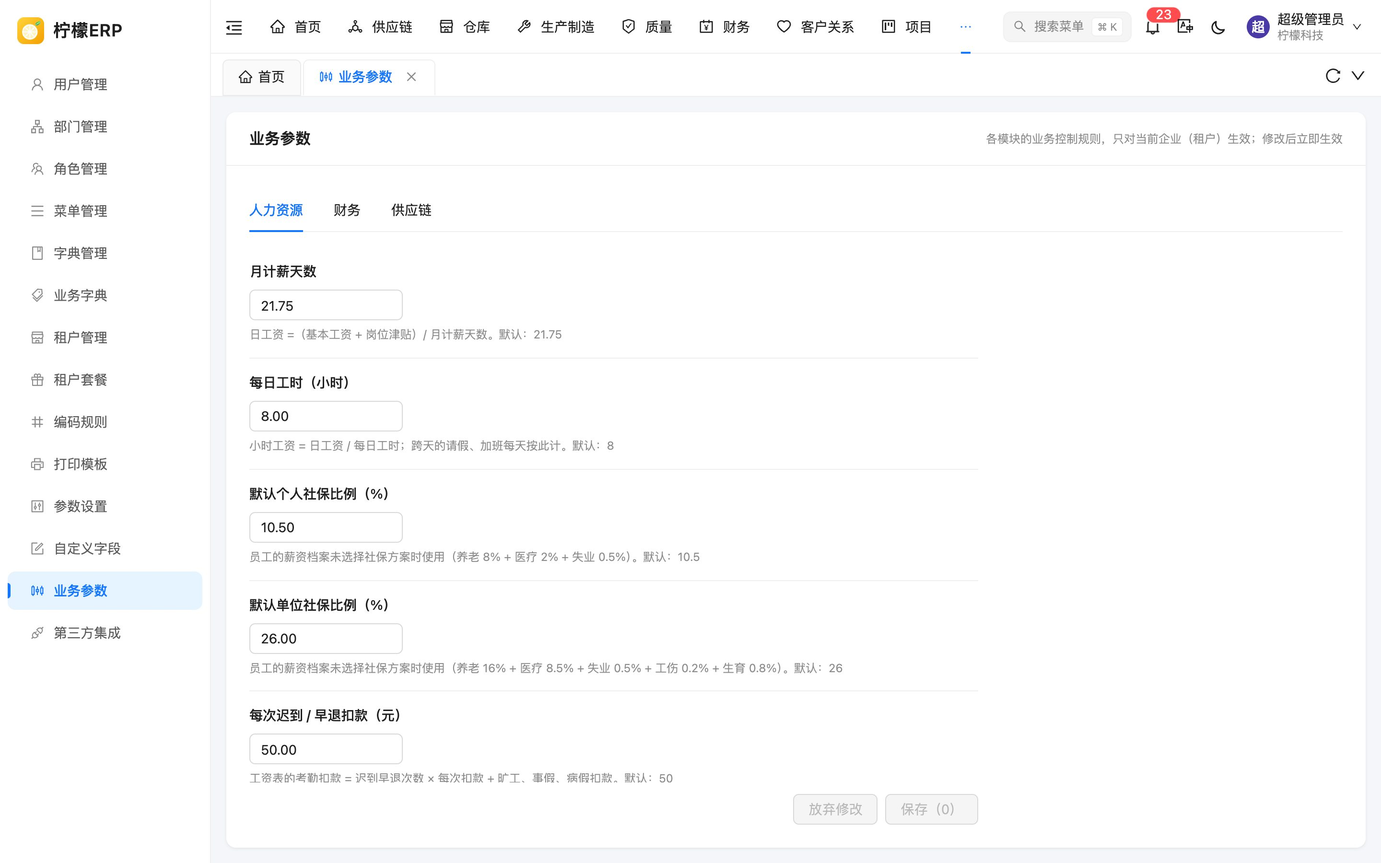
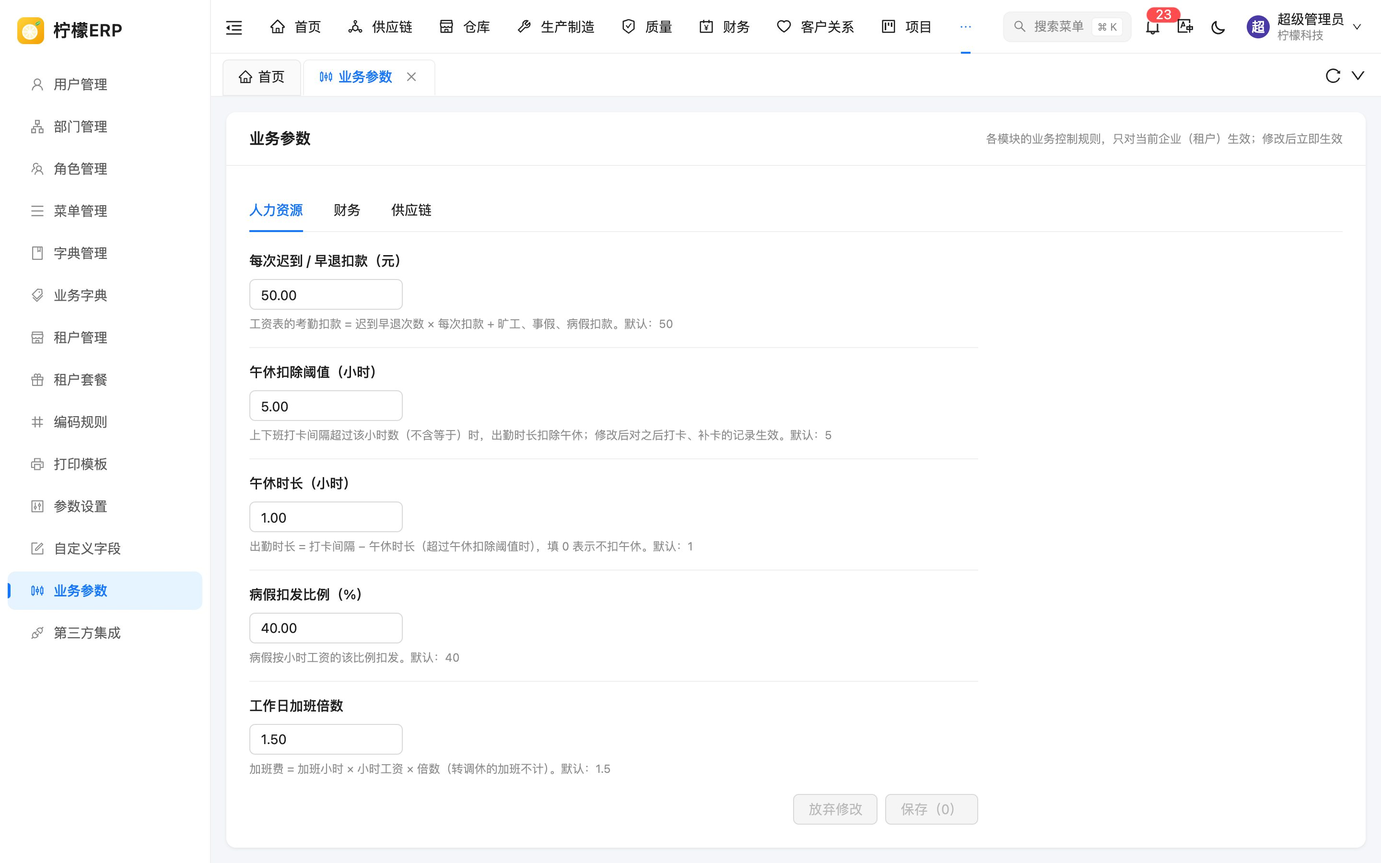
docs: 人力资源午休参数、EnableStatus 枚举写法

diff --git a/docs/dev/guide/biz-rule.md b/docs/dev/guide/biz-rule.md
@@ -44,10 +44,12 @@ order: 13
 | `scm.salesOut.overRate` | 供应链 | 销售出库超发比例（%） | 数字 0~100 | 0 | 同上，销售出库 |
 | `scm.credit.control` | 供应链 | 客户信用额度控制 | 下拉（`CreditControl`） | `ALL` 审核和出库时控制 | `ScmOrderService`：`ALL` 时审核销售订单和出库都校验，`SHIPMENT` 只在出库时校验，`NONE` 不校验 |
 | `fin.voucher.selfAudit` | 财务 | 允许审核自己制单的凭证 | 是否 | false | `FinVoucherService`：关闭时制单人不能审核自己的凭证（超级管理员除外） |
-| `hr.pay.monthDays` | 人力资源 | 月计薪天数 | 小数（2 位）1~31 | 21.75 | 日工资 =（基本工资 + 岗位津贴）/ 月计薪天数 |
-| `hr.pay.dayHours` | 人力资源 | 每日工时 | 小数 1~24 | 8 | 小时工资 = 日工资 / 每日工时；请假跨天时每天按此计 |
+| `hr.pay.monthDays` | 人力资源 | 月计薪天数 | 小数（2 位）1~31 | 21.75 | 日工资 =（基本工资 + 岗位津贴）/ 月计薪天数；月计薪小时 `monthPayHours()` = 月计薪天数 × 每日工时，用于薪资档案的小时人工成本（项目成员小时成本） |
+| `hr.pay.dayHours` | 人力资源 | 每日工时 | 小数 1~24 | 8 | 小时工资 = 日工资 / 每日工时；请假跨天时每天按此计；请假流程变量 `days`、项目工时的全天请假判断（`PmTimesheetService`） |
 | `hr.social.personalRate` / `hr.social.companyRate` | 人力资源 | 个人 / 单位社保比例（%） | 小数 0~100 | 10.5 / 26 | 员工没有社保方案时使用 |
 | `hr.attendance.lateFine` | 人力资源 | 迟到早退扣款（每次） | 小数 0~10000 | 50 | 工资表考勤扣款 |
+| `hr.attendance.lunchThresholdHours` | 人力资源 | 午休扣除阈值（小时） | 小数 0~24 | 5 | `HrAttendanceService.evaluate` → `HrRules.workHours`：打卡间隔超过该小时数（不含等于）时扣除午休 |
+| `hr.attendance.lunchBreakHours` | 人力资源 | 午休时长（小时） | 小数 0~24 | 1 | 同上，扣除的小时数，0 表示不扣；只影响之后打卡、补卡计算的出勤时长 |
 | `hr.leave.sickDeductRate` | 人力资源 | 病假扣发比例（%） | 小数 0~100 | 40 | 病假按小时工资扣发 |
 | `hr.overtime.workdayRate` / `restdayRate` / `holidayRate` | 人力资源 | 工作日 / 休息日 / 法定节假日加班倍数 | 小数 0~10 | 1.5 / 2 / 3 | 加班费 |
 | `hr.tax.threshold` | 人力资源 | 个税基本减除费用（月） | 小数 | 5000 | 累计预扣法 |
@@ -250,15 +252,17 @@ public void validate(String key, String value) {
 
 ### 多个相关参数的类型化读取
 
-一组计算规则有很多参数时（如工资计算用到的 12 个参数），不要在计算代码中到处 `bizRules.decimal("...")`，而是定义一个 record 汇总这组参数，读取一次后作为参数传给计算方法。人力资源的写法：
+一组计算规则有很多参数时（如工资、考勤计算用到的 14 个参数），不要在计算代码中到处 `bizRules.decimal("...")`，而是定义一个 record 汇总这组参数，读取一次后作为参数传给计算方法。人力资源的写法：
 
 ```java
 // hr/model/HrRules：参数标识、默认值和类型化的取值
 public record HrRules(BigDecimal monthPayDays, BigDecimal dayHours, BigDecimal socialPersonal, BigDecimal socialCompany,
                       BigDecimal lateFine, BigDecimal sickDeduct, BigDecimal overtimeWorkday, BigDecimal overtimeRestday,
-                      BigDecimal overtimeHoliday, BigDecimal taxThreshold, List<TaxBracket> taxBrackets, int probationMonths) {
+                      BigDecimal overtimeHoliday, BigDecimal taxThreshold, List<TaxBracket> taxBrackets, int probationMonths,
+                      BigDecimal lunchThreshold, BigDecimal lunchBreak) {
 
     public static final String MONTH_PAY_DAYS = "hr.pay.monthDays";
+    public static final String LUNCH_THRESHOLD = "hr.attendance.lunchThresholdHours";
     // ... 其他参数标识
 
     /** 默认值（规范写法，业务参数的默认值） */
@@ -274,6 +278,12 @@ public record HrRules(BigDecimal monthPayDays, BigDecimal dayHours, BigDecimal s
     public BigDecimal socialPersonalRate() {
         return socialPersonal.divide(Decimals.HUNDRED);
     }
+
+    /** 月计薪小时 = 月计薪天数 × 每日工时（默认 174） */
+    public BigDecimal monthPayHours() { ... }
+
+    /** 出勤时长（小时，两位小数）：打卡间隔超过午休扣除阈值时扣除午休，不小于 0 */
+    public BigDecimal workHours(long minutes) { ... }
 
     /** 累计预扣的个税 = 累计应纳税所得额 × 预扣率 − 速算扣除数 */
     public BigDecimal cumulativeTax(BigDecimal cumTaxable) { ... }
@@ -293,6 +303,34 @@ public HrRules current() {
 HrRules rules = ruleService.current();
 // HrPayrollService：日工资 =（基本工资 + 岗位津贴）/ 月计薪天数
 BigDecimal daily = salary.getBaseSalary().add(salary.getPostAllowance()).divide(rules.monthPayDays(), 6, RoundingMode.HALF_UP);
+// HrAttendanceService：打卡、补卡时读取一次，传给静态的计算方法
+evaluate(a, calendarService.shiftOf(e), calendarService.isWorkday(today), ruleService.current());
+a.setWorkHours(rules.workHours(Duration.between(a.getCheckIn(), a.getCheckOut()).toMinutes()));
+```
+
+**前端需要参数值时提供只读的子集接口**。业务参数页面的读取接口要求 `sys:bizRule:list` 权限，业务人员通常没有；需要按参数估算时，由本模块提供一个只返回所需字段的接口，权限跟随业务页面，前端不写死这些数字。薪资档案页面的写法：
+
+```java
+// hr/dto/SalaryRules：薪资档案页面估算用到的子集
+public record SalaryRules(BigDecimal monthPayDays, BigDecimal dayHours, BigDecimal monthPayHours,
+                          BigDecimal socialPersonal, BigDecimal socialCompany) {
+    public static SalaryRules of(HrRules rules) { ... }
+}
+
+// HrSalaryController：GET /hr/salary/rules，有薪资档案查看权限即可
+@GetMapping("/rules")
+@PreAuthorize("@ss.hasPerm('hr:salary:list')")
+public R<SalaryRules> rules() {
+    return R.ok(SalaryRules.of(ruleService.current()));
+}
+```
+
+```js
+// lemon-web/src/views/hr/salary/index.vue：页面加载时读取，用于默认社保比例和时薪成本
+import { salaryRules } from '@/api/hr'
+const payRules = ref({})
+payRules.value = await salaryRules().catch(() => ({}))
+const hourlyCost = (monthly) => (Number(payRules.value.monthPayHours) ? monthly / Number(payRules.value.monthPayHours) : null)
 ```
 
 - 标识、默认值、类型转换和派生的计算（如 `monthPayHours()`、`cumulativeTax()`）都集中在 record 中，`BizRuleProvider` 只负责登记；

diff --git a/docs/dev/guide/backend.md b/docs/dev/guide/backend.md
@@ -61,7 +61,7 @@ public class R<T> {
 public R<PageResult<WmsWarehouse>> page(@RequestParam(defaultValue = "1") long current,
                                         @RequestParam(defaultValue = "10") long size,
                                         @RequestParam(required = false) String keyword,
-                                        @RequestParam(required = false) Integer status) {
+                                        @RequestParam(required = false) EnableStatus status) {
     return R.ok(warehouseService.page(current, size, keyword, status));
 }
 ```
@@ -202,11 +202,37 @@ orderMapper.update(Wrappers.<ScmOrder>lambdaUpdate().set(ScmOrder::getStatus, Or
         .eq(ScmOrder::getId, id).in(ScmOrder::getStatus, OrderStatus.EXECUTABLE));
 ```
 
+**启用 / 停用状态用 `EnableStatus`**。物料、仓库、库位、客户、供应商、科目、币种、BOM、工作中心、检验方案、岗位、社保方案、用户、角色、部门、菜单、字典、租户、定时任务、流程模型等约 30 个启停字段统一用 `lemon-common` 的 `com.lemon.erp.common.enums.EnableStatus`（`ENABLED`、`DISABLED`，对应字典 `sys_common_status`）。它是唯一**不按名称存储**的枚举：数据库列、JSON、查询参数中仍是数字 1 / 0，与字典取值、已有数据和前端保持一致。
+
+```java
+// 实体、请求 DTO：字段直接用 EnableStatus（数据库列仍为 TINYINT 1 / 0）
+private EnableStatus status;
+
+// 比较用 == 或枚举方法，不写 Integer.valueOf(1).equals(...)、status == 1
+if (warehouse.getStatus() == EnableStatus.DISABLED) { ... }
+if (EnableStatus.isEnabled(user.getStatus())) { ... }   // null 视为未启用
+entity.setStatus(EnableStatus.ENABLED);
+.eq(WmsWarehouse::getStatus, EnableStatus.ENABLED)
+
+// 查询参数：?status=1 / ?status=0
+@RequestParam(required = false) EnableStatus status
+
+// 启停接口统一用 StatusRequest：{"status": 1 | 0}
+public record StatusRequest(@NotNull(message = "{common.valid.statusRequired}") EnableStatus status) { }
+warehouseService.changeStatus(id, req.status());
+```
+
+- 读写方式：`code` 字段同时标注 MyBatis-Plus 的 `@EnumValue`（按 1 / 0 读写数据库）和 Jackson 的 `@JsonValue`（输出数字）；反序列化由 `@JsonCreator` 的 `EnableStatus.fromJson` 处理，接受数字 1 / 0、字符串 `"1"` / `"0"`（也接受常量名 `ENABLED` / `DISABLED`），空字符串为 `null`；查询参数、路径变量由 `framework/config/WebMvcConfig.addFormatters` 注册的转换器同样按 1 / 0 转换；
+- 非法值：`fromJson` / `of(Integer)` 抛出 `InvalidEnumValueException`，请求体中由 `GlobalExceptionHandler` 提示「字段 status 的取值“2”不正确」，查询参数中提示「参数「status」格式不正确」，不再需要 `@Min` / `@Max` 校验；
+- 其他方法：`EnableStatus.of(Integer)`（null 返回 null）、`EnableStatus.of(boolean)`、实例方法 `isEnabled()` / `isDisabled()`、`getCode()`；
+- 只有启用 / 停用改用 `EnableStatus`；成功 / 失败（登录日志、操作日志的状态）、显示 / 隐藏（菜单的 `visible`）以及「是否主联系人」「是否内置」「是否必填」等是否标志仍是 `Integer` 1 / 0；
+- 前端不在 `@/constants/enums` 中生成该枚举（`gen-enums.mjs` 跳过带 `@JsonValue` 的枚举，按名称生成会与接口数据不一致），使用 `@/utils/constants` 的 `STATUS_ENABLED`（1）/ `STATUS_DISABLED`（0），显示用字典 `sys_common_status` 的 `<DictTag>`。
+
 **跨模块共用的取值放在 framework**：审批状态 `framework/workflow/ApproveStatus`（字典 `sys_approve_status`）、站内消息类别 `framework/message/MessageCategory`（字典 `sys_message_category`）、流程变量类型 `FlowBusiness.VariableType`。
 
 **业务字典的字段保持字符串**。业务字典（客户等级、物料分类、假期类型等，见 [字典](../architecture/tenant#字典)）的取值由租户维护、可以新增，不能定义为枚举；字段用 `String`，保存时用 `DictLookup.check` 按当前租户的字典校验。程序依赖的内置取值集中定义为常量（如 `hr/model/HrDictValues.LEAVE_ANNUAL`），并在 `init.sql` 中标记为内置（`builtin = 1`），租户不能删除、不能改键值。
 
-**前端同步**：前端比较状态时使用由后端枚举生成的 `@/constants/enums`。新增或修改枚举后在 `lemon-web` 中运行 `npm run gen:enums` 重新生成，`npm run i18n:check` 会检查生成的文件是否与后端一致，见 [前端开发规范](./frontend#状态与类型常量)。只有「文件名与枚举同名的顶层枚举」会被生成，类内部的嵌套枚举不会。
+**前端同步**：前端比较状态时使用由后端枚举生成的 `@/constants/enums`。新增或修改枚举后在 `lemon-web` 中运行 `npm run gen:enums` 重新生成，`npm run i18n:check` 会检查生成的文件是否与后端一致，见 [前端开发规范](./frontend#状态与类型常量)。只有「文件名与枚举同名的顶层枚举」会被生成，类内部的嵌套枚举、用 `@JsonValue` 自定义取值的枚举（`EnableStatus`）不会。
 
 ## SQL 约定
 

diff --git a/docs/manual/system/biz-rule.md b/docs/manual/system/biz-rule.md
@@ -4,7 +4,7 @@ order: 12
 
 # 业务参数
 
-业务参数集中管理各业务模块的控制规则，例如采购入库能否超收、销售出库能否超发、客户信用额度在哪些环节控制、制单人能否审核自己的凭证，以及工资计算用的月计薪天数、每日工时、默认社保比例、加班倍数、个税预扣率表等人事计算规则。企业可以按自己的管理要求调整，不需要修改系统。
+业务参数集中管理各业务模块的控制规则，例如采购入库能否超收、销售出库能否超发、客户信用额度在哪些环节控制、制单人能否审核自己的凭证，以及工资计算用的月计薪天数、每日工时、默认社保比例、考勤的午休扣除、加班倍数、个税预扣率表等人事计算规则。企业可以按自己的管理要求调整，不需要修改系统。
 
 ## 与「参数设置」的区别
 
@@ -46,15 +46,19 @@ order: 12
 
 ![业务参数 - 人力资源](/images/manual/system/biz-rule-hr.jpg)
 
-人力资源页签集中了工资、社保、考勤扣款、加班费、个税和试用期的计算规则。默认值与系统此前固定使用的规则相同，不修改时计算结果不变。修改后只影响**之后**的计算：已生成的工资表、已保存的员工档案不会自动重算，需要时重新核算工资表。
+人力资源页签共 14 个参数，集中了工资、社保、考勤扣款、午休扣除、加班费、个税和试用期的计算规则。默认值与系统此前固定使用的规则相同，不修改时计算结果不变。修改后只影响**之后**的计算：已生成的工资表、已保存的员工档案、已有的考勤记录不会自动重算，需要时重新核算工资表；已有考勤记录的出勤时长可通过补卡重新计算。
+
+[薪资档案](../hr/salary)页面的人工成本估算（月计薪天数、每日工时、默认社保比例）也读取本租户当前的参数值，人事人员只要有薪资档案的查看权限即可，不需要业务参数页面的权限。
 
 | 参数 | 取值 | 默认值 | 说明（界面提示）与影响的业务 |
 | --- | --- | --- | --- |
 | 月计薪天数 | 1 ~ 31，最多 2 位小数 | 21.75 | 日工资 =（基本工资 + 岗位津贴）/ 月计薪天数。用于[工资表](../hr/payroll)的事假、病假、旷工扣款和加班费，以及[薪资档案](../hr/salary)的小时成本 |
-| 每日工时（小时） | 1 ~ 24，最多 2 位小数 | 8 | 小时工资 = 日工资 / 每日工时；跨天的请假、加班每天按此计。请假审批流程的「天数」变量 = 小时数 ÷ 每日工时 |
-| 默认个人社保比例（%） | 0 ~ 100，最多 2 位小数 | 10.5 | 员工的薪资档案未选择社保方案时使用（养老 8% + 医疗 2% + 失业 0.5%），见[社保方案](../hr/social) |
-| 默认单位社保比例（%） | 0 ~ 100，最多 2 位小数 | 26 | 员工的薪资档案未选择社保方案时使用（养老 16% + 医疗 8.5% + 失业 0.5% + 工伤 0.2% + 生育 0.8%） |
+| 每日工时（小时） | 1 ~ 24，最多 2 位小数 | 8 | 小时工资 = 日工资 / 每日工时；跨天的请假、加班每天按此计。请假审批流程的「天数」变量 = 小时数 ÷ 每日工时；[工时填报](../pm/timesheet)判断「全天请假」也按此 |
+| 默认个人社保比例（%） | 0 ~ 100，最多 2 位小数 | 10.5 | 员工的薪资档案未选择社保方案时使用（养老 8% + 医疗 2% + 失业 0.5%），见[社保方案](../hr/social)；[薪资档案](../hr/salary)表单的「社保方案」提示和个人社保估算按当前值显示 |
+| 默认单位社保比例（%） | 0 ~ 100，最多 2 位小数 | 26 | 员工的薪资档案未选择社保方案时使用（养老 16% + 医疗 8.5% + 失业 0.5% + 工伤 0.2% + 生育 0.8%）；薪资档案的月度人工成本、时薪成本按当前值估算 |
 | 每次迟到 / 早退扣款（元） | 0 ~ 10000，最多 2 位小数 | 50 | 工资表的考勤扣款 = 迟到早退次数 × 每次扣款 + 旷工、事假、病假扣款 |
+| 午休扣除阈值（小时） | 0 ~ 24，最多 2 位小数 | 5 | 上下班打卡间隔超过该小时数（不含等于）时，出勤时长扣除午休；修改后对之后打卡、补卡的记录生效。用于[考勤管理](../hr/attendance#考勤结果的计算)的出勤时长 |
+| 午休时长（小时） | 0 ~ 24，最多 2 位小数 | 1 | 出勤时长 = 打卡间隔 − 午休时长（超过午休扣除阈值时），填 0 表示不扣午休；扣除后不会小于 0 |
 | 病假扣发比例（%） | 0 ~ 100，最多 2 位小数 | 40 | 病假按小时工资的该比例扣发 |
 | 工作日加班倍数 | 0 ~ 10，最多 2 位小数 | 1.5 | 加班费 = 加班小时 × 小时工资 × 倍数（转调休的加班不计） |
 | 休息日加班倍数 | 0 ~ 10，最多 2 位小数 | 2 | 同上 |

diff --git a/docs/manual/system/index.md b/docs/manual/system/index.md
@@ -20,7 +20,7 @@
 | [打印模板](./print-template) | 配置单据打印版式（服务器生成 PDF，可上传 JRXML、设置套打）和标签模板 | 每个租户独立 |
 | [参数设置](./config) | 系统名称、水印、登录验证码、密码策略、会话、附件大小等 | 平台专属，所有租户共用 |
 | [自定义字段](./custom-field) | 不改表结构，为客户、供应商、物料、采购 / 销售订单等扩展字段，在表单中填写、可在列表中显示 | 每个租户独立 |
-| [业务参数](./biz-rule) | 采购超收、销售超发比例，客户信用额度控制方式，是否允许审核自己制单的凭证；月计薪天数、每日工时、默认社保比例、考勤扣款、加班倍数、个税预扣率表、默认试用期等人事计算规则 | 每个租户独立 |
+| [业务参数](./biz-rule) | 采购超收、销售超发比例，客户信用额度控制方式，是否允许审核自己制单的凭证；月计薪天数、每日工时、默认社保比例、考勤扣款、午休扣除、加班倍数、个税预扣率表、默认试用期等人事计算规则 | 每个租户独立 |
 | [第三方集成](./im) | 接入钉钉、企业微信、飞书：扫码登录与应用内免登、消息推送到应用和群机器人、通讯录同步与成员绑定 | 每个租户接入自己的应用 |
 
 ::: tip 平台专属功能
@@ -39,7 +39,7 @@
 | 4 | [用户管理](./user) | 为员工开通账号，选择所属部门、分配角色；也可以在人力资源的[员工录用](../hr/employee#办理入职)时自动开通账号 |
 | 5 | [编码规则](./code-rule) | 确认各单据编号的前缀、日期格式、流水位数和重置周期，上线前定好，避免中途修改造成编号风格不一致 |
 | 6 | [打印模板](./print-template) | 在「通用设置」中填写公司名称，按需调整采购订单、出入库单、记账凭证等单据的纸张和版式；使用预印单据纸的设置[套打](./print-template#套打)；调整物料、库位、箱标签 |
-| 7 | [业务参数](./biz-rule)、[业务字典](./biz-dict) | 与业务部门确认是否允许采购超收、销售超发及比例，客户信用额度在审核还是出库时控制，是否允许制单人审核自己的凭证；与人事确认月计薪天数、每日工时、默认社保比例、迟到早退扣款、病假扣发比例、加班倍数、个税基本减除费用和默认试用期；在业务字典中按企业习惯调整客户等级、物料分类、不良类型、假期类型、出入库类别、停机原因等下拉选项（新增需要的取值，停用用不到的取值） |
+| 7 | [业务参数](./biz-rule)、[业务字典](./biz-dict) | 与业务部门确认是否允许采购超收、销售超发及比例，客户信用额度在审核还是出库时控制，是否允许制单人审核自己的凭证；与人事确认月计薪天数、每日工时、默认社保比例、迟到早退扣款、午休扣除阈值与午休时长、病假扣发比例、加班倍数、个税基本减除费用和默认试用期；在业务字典中按企业习惯调整客户等级、物料分类、不良类型、假期类型、出入库类别、停机原因等下拉选项（新增需要的取值，停用用不到的取值） |
 | 8 | [自定义字段](./custom-field)（可选） | 录入基础资料之前，为客户、供应商、物料、订单补充企业需要的扩展字段（如品牌、行业），录入时一并填写 |
 | 9 | 各业务模块基础资料 | [仓库](../wms/warehouse)与[库位](../wms/location)、[规格属性](../wms/attribute)与[物料](../wms/material)（含计价方法、多规格）、[供应商](../scm/supplier)、[客户](../scm/customer)、[会计科目](../fin/account)（含辅助核算）、员工档案、[工作中心](../mes/work-center)与 [BOM](../mes/bom) 等，参见各模块章节，例如[仓库管理](../wms/)、[供应链管理](../scm/)、[人力资源](../hr/)、[生产制造](../mes/) |
 | 10 | [凭证科目设置](../fin/account-rule) | 确认自动生成凭证使用的科目：往来、存货与成本、收入与费用、税费、资产、薪酬、期末；存货、收入、成本可按物料分类，工资费用可按职位类别分别设置。只影响之后生成的凭证，务必在业务开始前设好 |

diff --git a/docs/manual/hr/salary.md b/docs/manual/hr/salary.md
@@ -19,7 +19,9 @@ order: 10
 - 没有薪资档案的员工各金额列显示「-」，月度人工成本显示「未建立」，操作列为「建立档案」；已建立的为「调整」。
 - 列表按[数据权限](../guide/permission#数据权限的-5-种范围)显示；工具栏支持列设置和导出。
 
-月度人工成本 = 基本工资 + 岗位津贴 + 其他补贴 + 社保基数 × 单位社保比例 + 公积金基数 × 公积金比例；时薪成本 = 月度人工成本 ÷ 每月计薪小时（月计薪天数 × 每日工时，默认 21.75 天 × 8 小时 = 174 小时，可在[业务参数](../system/biz-rule#人力资源)中修改）。
+月度人工成本 = 基本工资 + 岗位津贴 + 其他补贴 + 社保基数 × 单位社保比例（选了社保方案按方案各险种单位比例之和，未选按默认单位社保比例）+ 公积金基数 × 公积金比例；时薪成本 = 月度人工成本 ÷ 每月计薪小时（月计薪天数 × 每日工时，默认 21.75 天 × 8 小时 = 174 小时）。
+
+默认社保比例、月计薪天数和每日工时都取本企业（租户）[业务参数](../system/biz-rule#人力资源)中的当前值，管理员修改参数后重新打开本页面即按新值估算；人事人员只需要薪资档案的查看权限，不需要业务参数页面的权限。参数没有读取成功时，时薪成本显示「-」。
 
 ## 建立档案 / 调整
 
@@ -33,7 +35,7 @@ order: 10
 | 岗位津贴 | 元/月，默认 0。与基本工资一起作为日工资的计算基数 |
 | 其他补贴 | 元/月，默认 0。餐补、交通等，不参与缺勤扣款计算 |
 | 绩效奖金基数 | 默认 0。绩效奖金 = 基数 × 绩效系数（S 1.5 / A 1.2 / B 1.0 / C 0.8 / D 0） |
-| 社保方案 | 按 [社保方案](./social) 的缴费比例和基数上下限计算社保；不选按[业务参数](../system/biz-rule#人力资源)中的默认比例（默认个人 10.5%、单位 26%） |
+| 社保方案 | 按 [社保方案](./social) 的缴费比例和基数上下限计算社保；不选按[业务参数](../system/biz-rule#人力资源)中的默认比例。输入框下方提示显示本企业当前的比例，如「当前个人 10.5%、单位 26%」（这两个是默认值，可在业务参数中修改） |
 | 社保基数 | 不填按基本工资 + 岗位津贴 |
 | 公积金基数 | 不填按基本工资 + 岗位津贴 |
 | 公积金比例 | 5%-12%，默认 7%。个人和单位按相同比例缴纳 |
@@ -41,7 +43,7 @@ order: 10
 | 生效日期 | 不填时默认今天（新建档案默认为入职日期）。晚于今天的调整到期后才计入工资 |
 | 备注 | 选填，记录到薪资历史的说明中 |
 
-表单底部实时估算「个人社保公积金约 X 元/月，单位人工成本约 X 元/月（项目工时按 X 元/小时计算）」。已建立档案的员工下方显示 **薪资历史**：生效日期、基本工资、岗位津贴、社保基数、说明。
+表单底部实时估算「个人社保公积金约 X 元/月，单位人工成本约 X 元/月（项目工时按 X 元/小时计算）」，社保比例和每月计薪小时同样取业务参数的当前值。已建立档案的员工下方显示 **薪资历史**：生效日期、基本工资、岗位津贴、社保基数、说明。
 
 ## 调薪生效规则
 
@@ -54,7 +56,7 @@ order: 10
 ## 与其他模块的联动
 
 - **薪酬核算**：工资表的基本工资、津贴、日工资、加班费、绩效奖金、社保公积金都来自薪资档案，见 [薪酬核算](./payroll)。
-- **项目管理**：员工的小时人工成本 =（基本工资 + 津贴 + 单位社保公积金）÷ 每月计薪小时（默认 174），用于计算[项目工时](../pm/timesheet)的人工成本。
+- **项目管理**：员工的小时人工成本 =（基本工资 + 津贴 + 单位社保公积金）÷ 每月计薪小时（月计薪天数 × 每日工时，默认 174，可在业务参数中修改），用于计算[项目工时](../pm/timesheet)的人工成本。
 - **生产制造**：生产岗位在职员工的平均小时人工成本可作为[工作中心](../mes/work-center)人工费率的参考。
 - **招聘管理**：录用时填写试用期基本工资，会自动建立薪资档案。
 

diff --git a/docs/manual/hr/self.md b/docs/manual/hr/self.md
@@ -38,6 +38,7 @@ order: 1
 - 当天第一次点击为「上班打卡」，之后按钮变为「下班打卡」。下班卡可以多次打，以最后一次为准。
 - 打卡后按员工的班次自动判断：上班时间晚于「上班时间 + 宽限分钟」为迟到，下班时间早于「下班时间 - 宽限分钟」为早退；只有上班卡或只有下班卡为缺卡。
 - 周末、法定节假日打卡视为加班，不计迟到早退。
+- 有上下班卡后计算出勤时长：打卡间隔超过午休扣除阈值（默认 5 小时）时扣除午休时长（默认 1 小时），两个值由管理员在[业务参数](../system/biz-rule#人力资源)中设置，见[考勤管理](./attendance#考勤结果的计算)。
 - 已离职员工不能打卡。
 
 ## 页签说明
@@ -66,8 +67,12 @@ order: 1
 | 假期类型 | 请假必填：年假（显示剩余天数）、事假、病假、婚假、产假 / 陪产假、调休。选择调休时显示调休余额 |
 | 补偿方式 | 加班时选择：「发加班费」（默认）或「转调休」 |
 | 时间 | 必填，开始和结束时间，分钟按 30 分钟步进。请假默认明天 9:00-18:00，加班默认明天 18:30 起 2 小时 |
-| 时长 | 必填，单位小时，按 0.5 递增。请假按日期内的工作日（周一至周五）每天 8 小时自动估算，同一天内按时间差计算并扣除午休，可以修改，请半天填 4 小时；加班按起止时间差计算 |
+| 时长 | 必填，单位小时，按 0.5 递增。请假按日期内的工作日（周一至周五）每天 8 小时自动估算；同一天内按时间差计算，开始早于 13:00、结束在 13:00 及以后时扣除 1 小时午休，最多 8 小时。估算值可以修改，请半天填 4 小时；加班按起止时间差计算 |
 | 事由 | 选填，最多 255 字 |
+
+::: tip 提示
+申请弹窗中的时长估算固定按每天 8 小时、扣 1 小时午休计算，不随[业务参数](../system/biz-rule#人力资源)中的「每日工时」「午休时长」变化。企业修改过这些参数时，请按实际应请的小时数修改「时长」。提交后，审批流程中的「天数」按业务参数的每日工时折算（小时数 ÷ 每日工时），工资表的事假、病假扣款按小时工资（日工资 ÷ 每日工时）× 请假小时数计算。
+:::
 
 提交时的校验：
 

diff --git a/docs/manual/hr/leave.md b/docs/manual/hr/leave.md
@@ -15,7 +15,7 @@ order: 8
 ## 列表
 
 - **查询条件**：申请（单号、工号或姓名）、种类（请假 / 加班）、假期类型、状态（点「展开」显示）、开始日期范围。
-- **列表列**：单号、员工（姓名、工号、部门）、种类（请假 + 假期类型，或加班 + 补偿方式「加班费 / 转调休」）、时间、时长（8 小时及以上同时显示天数）、事由、状态（走审批流程的显示「审批流程中」）、审批（审批人、审批时间、审批意见）、操作。
+- **列表列**：单号、员工（姓名、工号、部门）、种类（请假 + 假期类型，或加班 + 补偿方式「加班费 / 转调休」）、时间、时长（8 小时及以上同时显示天数，固定按每天 8 小时折算显示，不随业务参数中的「每日工时」变化）、事由、状态（走审批流程的显示「审批流程中」）、审批（审批人、审批时间、审批意见）、操作。
 - 列表按[数据权限](../guide/permission#数据权限的-5-种范围)显示（按申请员工的部门和申请人）；工具栏支持列设置和导出。
 
 ## 假期类型
@@ -62,7 +62,7 @@ order: 8
 
 在[流程中心](../workflow/business#人力资源)发布了「请假加班审批」（流程标识 hr_leave）流程后，员工提交的申请自动发起流程，由流程中的审批人在 [流程中心](../workflow/todo) 处理，审批结束后自动更新申请状态。这类申请在本页面只能查看，不显示「审批」按钮（直接处理会提示「该申请正在走审批流程，请在流程中心处理」）。
 
-流程[条件分支](../workflow/designer#条件分支)可以使用以下变量：申请种类（请假 / 加班）、请假类型（加班为 OVERTIME）、天数、小时数、加班补偿方式。例如「请假超过 3 天由部门经理和总经理审批」。
+流程[条件分支](../workflow/designer#条件分支)可以使用以下变量：申请种类（请假 / 加班）、请假类型（加班为 OVERTIME）、天数（小时数 ÷ 每日工时，保留 1 位小数；每日工时默认 8 小时，可在[业务参数](../system/biz-rule#人力资源)中修改）、小时数、加班补偿方式。例如「请假超过 3 天由部门经理和总经理审批」。
 
 ## 注意事项
 

diff --git a/docs/manual/hr/attendance.md b/docs/manual/hr/attendance.md
@@ -31,9 +31,15 @@ order: 7
 | 迟到早退 | 同时迟到和早退 |
 | 缺卡 | 只有上班卡或只有下班卡，出勤时长为 0 |
 | 正常 | 其他情况 |
-| 出勤时长 | 下班时间 − 上班时间，超过 5 小时扣除 1 小时午休 |
+| 出勤时长 | 下班时间 − 上班时间（打卡间隔），超过「午休扣除阈值」时扣除「午休时长」，保留 2 位小数，最小为 0。默认间隔超过 5 小时（不含 5 小时）扣 1 小时，两个值可在[业务参数](../system/biz-rule#人力资源)中修改 |
 
 非工作日（周末、法定节假日）打卡不计迟到早退。
+
+出勤时长的例子（默认参数）：9:00 上班、18:00 下班，间隔 9 小时，超过 5 小时，出勤时长 = 9 − 1 = 8 小时；9:00 上班、14:00 下班，间隔正好 5 小时，不扣午休，出勤时长 5 小时。午休扣除与班次无关，所有班次使用同一组参数；把「午休时长」改为 0 即不扣午休。
+
+::: tip 提示
+修改午休扣除阈值或午休时长后，只有之后的打卡、补录 / 补卡按新参数计算，已有考勤记录的出勤时长不变；需要按新参数重算某条记录时，对它执行一次 **补卡** 并保存。
+:::
 
 ### 补录考勤 / 补卡
 

diff --git a/docs/manual/pm/timesheet.md b/docs/manual/pm/timesheet.md
@@ -43,9 +43,9 @@ order: 4
 | 不是项目成员 | 不能填报 |
 | 项目已完成或已关闭 | 不能填报 |
 | 同一天所有项目的工时合计超过 24 小时 | 不能保存 |
-| 当天全天[请假](../hr/leave)（人力资源[考勤](../hr/attendance)） | 不能保存，提示「全天请假，不能填报工时」 |
-| 当天工时超过考勤出勤时长（含加班） | 可以保存，但提示「出勤 X 小时（含加班），已填报 Y 小时，超出出勤」 |
-| 当天有部分请假，且工时与请假合计超过 8 小时 | 可以保存，但给出提示 |
+| 当天全天[请假](../hr/leave)（请假小时数达到每日工时，人力资源[考勤](../hr/attendance)） | 不能保存，提示「全天请假，不能填报工时」 |
+| 当天工时超过考勤出勤时长（已扣除午休，含加班） | 可以保存，但提示「出勤 X 小时（含加班），已填报 Y 小时，超出出勤」 |
+| 当天有部分请假，且工时与请假合计超过每日工时（默认 8 小时，见[业务参数](../system/biz-rule#人力资源)） | 可以保存，但给出提示 |
 
 ### 我的任务
 

diff --git a/docs/manual/pm/project.md b/docs/manual/pm/project.md
@@ -130,7 +130,7 @@ order: 1
 
 成员列表显示成员、角色、投入、小时成本、已审批工时、参与期间。
 
-**小时成本的计算**：不手工填写时，取员工薪资档案的月人工成本（基本工资 + 岗位津贴 + 其他津贴 + 单位承担的社保公积金）÷ 174 小时（21.75 天 × 8 小时）。每次审批工时时按最新的薪资档案重新折算；手工指定的小时成本保持不变。账号没有关联员工或没有薪资档案时为 0。
+**小时成本的计算**：不手工填写时，取员工薪资档案的月人工成本（基本工资 + 岗位津贴 + 其他津贴 + 单位承担的社保公积金）÷ 每月计薪小时（人力资源[业务参数](../system/biz-rule#人力资源)的月计薪天数 × 每日工时，默认 21.75 天 × 8 小时 = 174 小时）。每次审批工时时按最新的薪资档案重新折算；手工指定的小时成本保持不变。账号没有关联员工或没有薪资档案时为 0。
 
 ::: warning 注意
 - 项目经理不能移除。

diff --git a/docs/dev/guide/frontend.md b/docs/dev/guide/frontend.md
@@ -350,6 +350,7 @@ const editable = [OrderStatus.APPROVED, OrderStatus.PARTIAL].includes(d.status)
 - 导出名为 Java 简单类名；多个模块有同名枚举时全部加模块前缀（如 `WmsDocStatus`、`MesDocStatus`），`lemon-common` / `lemon-framework` 的前缀为 `Common` / `Framework`。
 - `npm run i18n:check` 的最后一步（`gen-enums.mjs --check`）检查生成的文件是否与后端一致，不一致时提示重新生成。
 - 业务字典（租户可扩展的分类）、Java 类内部的嵌套枚举、前端自己合成的取值不在其中，仍用字面量或在页面 / 模块的 js 中定义常量。
+- 用 `@JsonValue` 自定义 JSON 取值的枚举不生成。目前只有启用 / 停用 `EnableStatus`，接口中是数字 1 / 0，前端用 `@/utils/constants` 中的 `STATUS_ENABLED`（1）/ `STATUS_DISABLED`（0），如新增表单的默认值 `status: STATUS_ENABLED`。
 
 ## 单条操作：useAction
 

diff --git a/docs/dev/start/structure.md b/docs/dev/start/structure.md
@@ -56,7 +56,8 @@ lemon-erp
 com.lemon.erp.common
 ├── base          BaseEntity（id、createTime、updateTime）、TreeEntity（parentId、sort、children）
 ├── dto           StatusRequest（启用 / 停用请求体）
-├── exception     BizException（消息键 + 参数）、GlobalExceptionHandler
+├── enums         EnableStatus（启用 / 停用，存储与 JSON 为 1 / 0）
+├── exception     BizException（消息键 + 参数）、InvalidEnumValueException、GlobalExceptionHandler
 ├── i18n          Messages：自动发现各模块的消息资源包，按请求语言取消息
 ├── result        R（统一返回）、PageResult（分页结果）
 ├── util          Decimals（金额、数量的判空、求和、精度）、ServletUtils（请求、客户端 IP）、UserAgentUtils、TreeUtils
